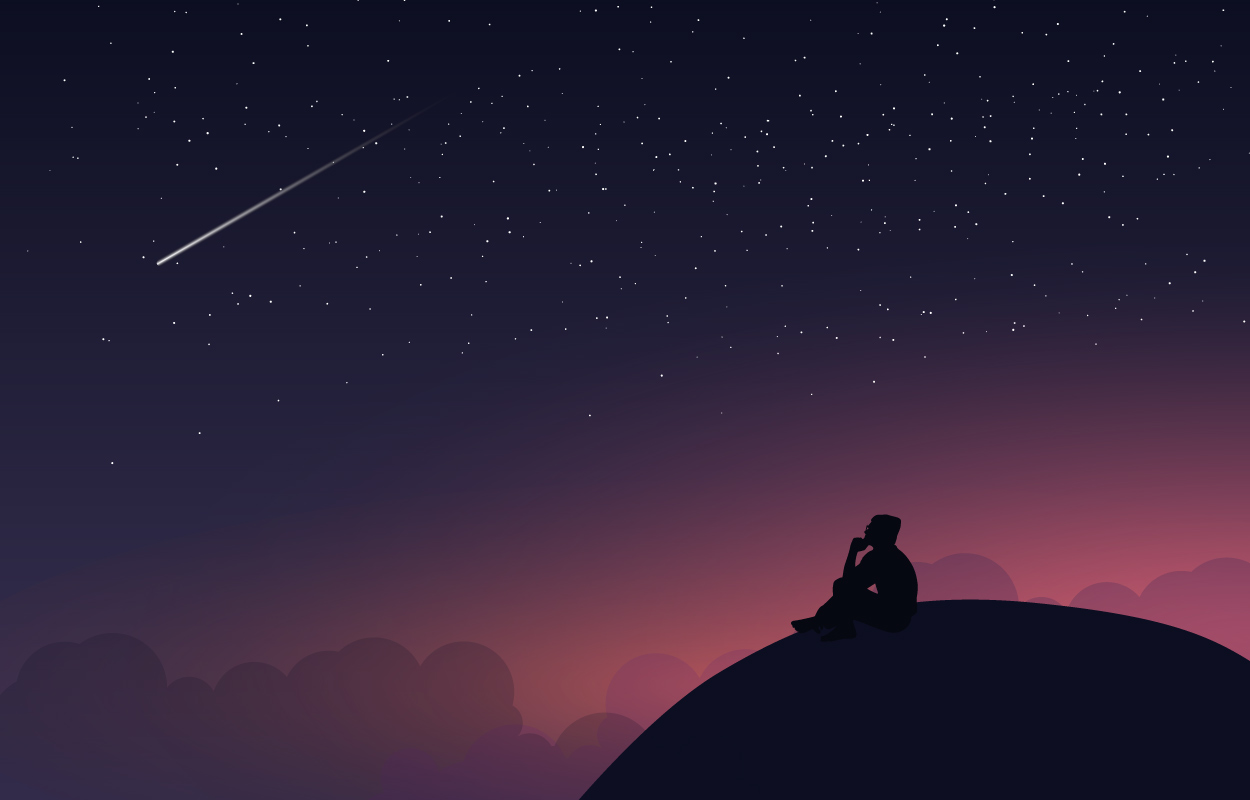
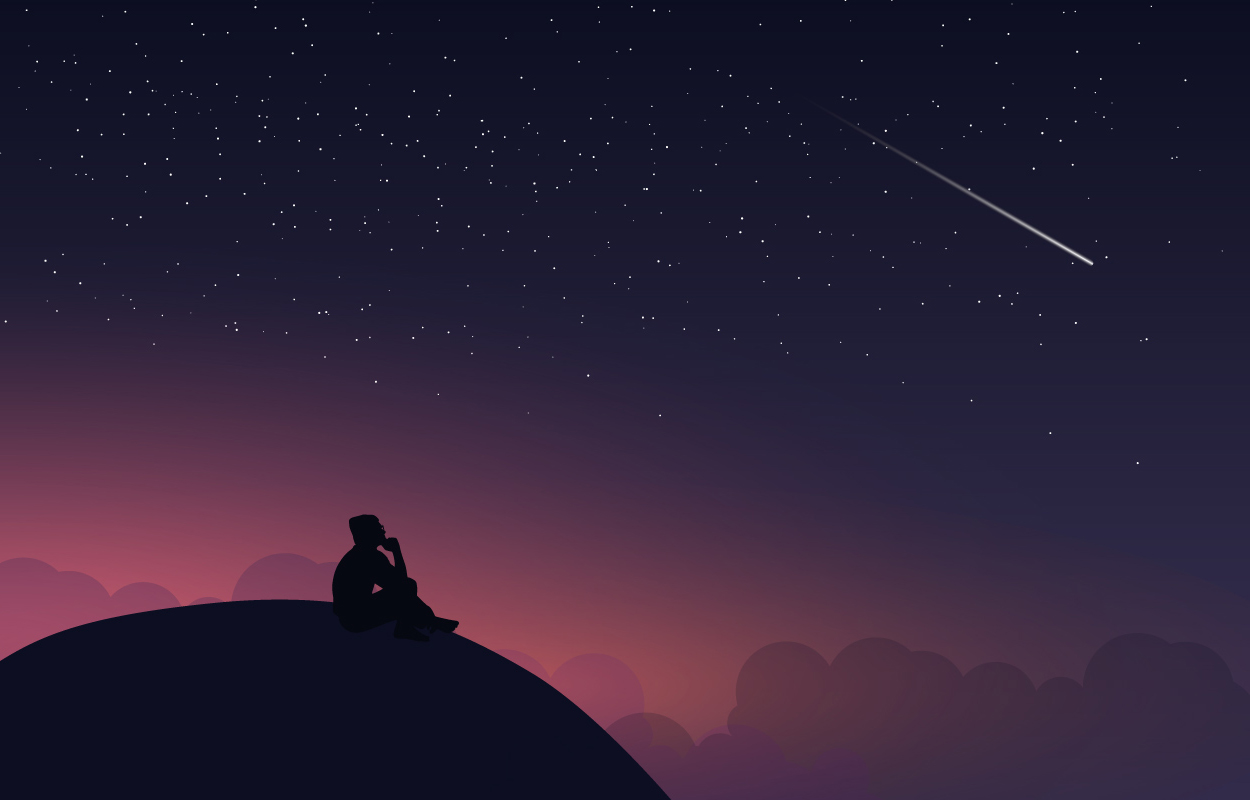
New background shifted

diff --git a/css/custom_7202018.css b/css/custom_7202018.css
@@ -1,0 +1,225 @@
+body {
+  font-family: 'Open sans', sans-serif;
+  color: #fff;
+  -webkit-background-size: cover;
+  -moz-background-size: cover;
+  -o-background-size: cover;
+  background-size: cover;
+  background-color: #f1f1f1;
+  background: url("../images/night_bg.jpg") no-repeat center center fixed;
+  background-size: cover;
+}
+
+h1 {
+  color: #ffffff;
+  font-weight: 700;
+  font-size: 40px;
+}
+
+h3 {
+  color: #ffffff;
+  font-style: italic;
+  font-size: 25px;
+}
+
+/* 
+Loading section
+*/
+
+.progress {
+  margin-top: 25px;
+  background-color: #443d36;
+}
+
+.se-pre-con {
+  position: fixed;
+  left: 0px;
+  top: 0px;
+  width: 100%;
+  height: 100%;
+  z-index: 9999;
+  background: url("../images/loading.gif") center no-repeat #f1f1f1;
+}
+
+.no-js #loader {
+  display: none;
+}
+
+.js #loader {
+  position: absolute;
+  left: 100px;
+  top: 0;
+  display: block;
+}
+
+/*
+Header Section
+*/
+
+.header-logo-wrapper {
+  margin: 12px 0px 11px 0px;
+}
+
+/*
+countdown timer section
+*/
+
+#counter {
+  color: #b57624;
+}
+
+#counter_wrapper {
+  margin: 0.5em 0px 0.5em;
+  font-size: 15px;
+  display: inline-block;
+  white-space: nowrap;
+  width: 100%;
+}
+
+#h-logo {
+  font-family: 'Pacifico', cursive;
+  text-align: center;
+  margin-top: 20px;
+  font-size: 40px;
+}
+
+.countdown-period {
+  display: block;
+  font-size: 60%;
+}
+
+.countdown-amount {
+  display: block;
+  font-size: 200%;
+}
+
+.countdown-section {
+  display: inline-block;
+  margin-right: 8%;
+}
+
+.countdown-section:last-child {
+  margin-right: 0px;
+}
+
+.subscribe-form-wrapper {
+  margin: 30px 0px 20px 0px;
+}
+
+.subscribe-form-wrapper button {
+  padding: 10px 35px;
+  border-radius: 20px;
+  border: 0;
+  outline: none;
+  font-style: italic;
+  font-weight: 700;
+  font-size: 14px;
+  color: #ffffff;
+  background-color: #ff6000;
+  transition-duration: 0.4s;
+}
+
+.subscribe-form-wrapper button:hover,
+.subscribe-form-wrapper button:focus,
+.subscribe-form-wrapper button:active:focus {
+  outline: none;
+  color: #ffffff;
+  background-color: #FF7E00;
+}
+
+.subscribe-form-wrapper input {
+  border: 0;
+  border-radius: 20px;
+}
+
+.subscribe-form-wrapper input,
+.subscribe-form-wrapper button {
+  -webkit-box-shadow: 0px 1px 1px 0px rgba(0, 0, 0, 0.3);
+  -moz-box-shadow: 0px 1px 1px 0px rgba(0, 0, 0, 0.3);
+  box-shadow: 0px 1px 1px 0px rgba(0, 0, 0, 0.3);
+}
+
+@media (min-width: 768px) {
+  .form-subs-email {
+    margin-left: 10px;
+    margin-right: 10px;
+    width: 100% !important;
+  }
+}
+
+/*
+ Social media section
+ */
+
+.social-media-wrapper {
+  margin-top: 30px;
+  margin-bottom: 80px;
+  font-size: 25px;
+}
+
+.social-media-wrapper a {
+  margin-right: 20px;
+  font-size: 25px;
+  color: #ffffff;
+}
+
+.social-media-wrapper a:last-child {
+  margin-right: 0px;
+}
+
+/*
+Footer and copyright section
+*/
+
+.copyright {
+
+  bottom: 0px;
+  margin: 30px 0px 20px 0px;
+  color: #777777;
+  font-size: 11px;
+}
+
+/*--- FORMS ---*/
+
+/*
+This is the bit you need.
+*/
+
+.subscribe-form-wrapper label {
+  position: absolute;
+  left: -9999px;
+}
+
+.subscribe-form-wrapper input,
+.subscribe-form-wrapper textarea {
+  font: inherit;
+  resize: none;
+  height: 38px;
+  width: 234px !important;
+}
+
+.h1,
+.h2,
+.h3,
+h1,
+h2,
+h3 {
+  margin-top: 8px;
+  margin-bottom: 0px;
+  color: #ffffff
+}
+
+/*--- THE MAGIC ---*/
+
+/*
+This is the best bit!
+*/
+
+[placeholder] {
+  cursor: pointer;
+}
+
+[placeholder]:active,
+[placeholder]:focus {
+  cursor: text;
+}

diff --git a/index.html b/index.html
@@ -12,7 +12,7 @@
   <!-- Bootstrap -->
   <link href="css/bootstrap.min.css" rel="stylesheet">
   <!-- custom css -->
-  <link href="css/custom.css" rel="stylesheet" />
+  <link href="css/custom_7202018.css" rel="stylesheet" />
   <link href="https://fonts.googleapis.com/css?family=Pacifico" rel="stylesheet">
   <link href="https://fonts.googleapis.com/css?family=Open+Sans" rel="stylesheet">
   <!-- HTML5 shim and Respond.js for IE8 support of HTML5 elements and media queries -->
@@ -29,7 +29,7 @@
     <div class="row">
       <div class="col-md-12">
         <div class="header-logo-wrapper">
-          <h2 id="h-logo" style="font-family: 'Pacifico', cursive;">Helppo</h2>>
+          <h2 id="h-logo" style="font-family: 'Pacifico', cursive;">Helppo</h2>
         </div>
       </div>
     </div>
